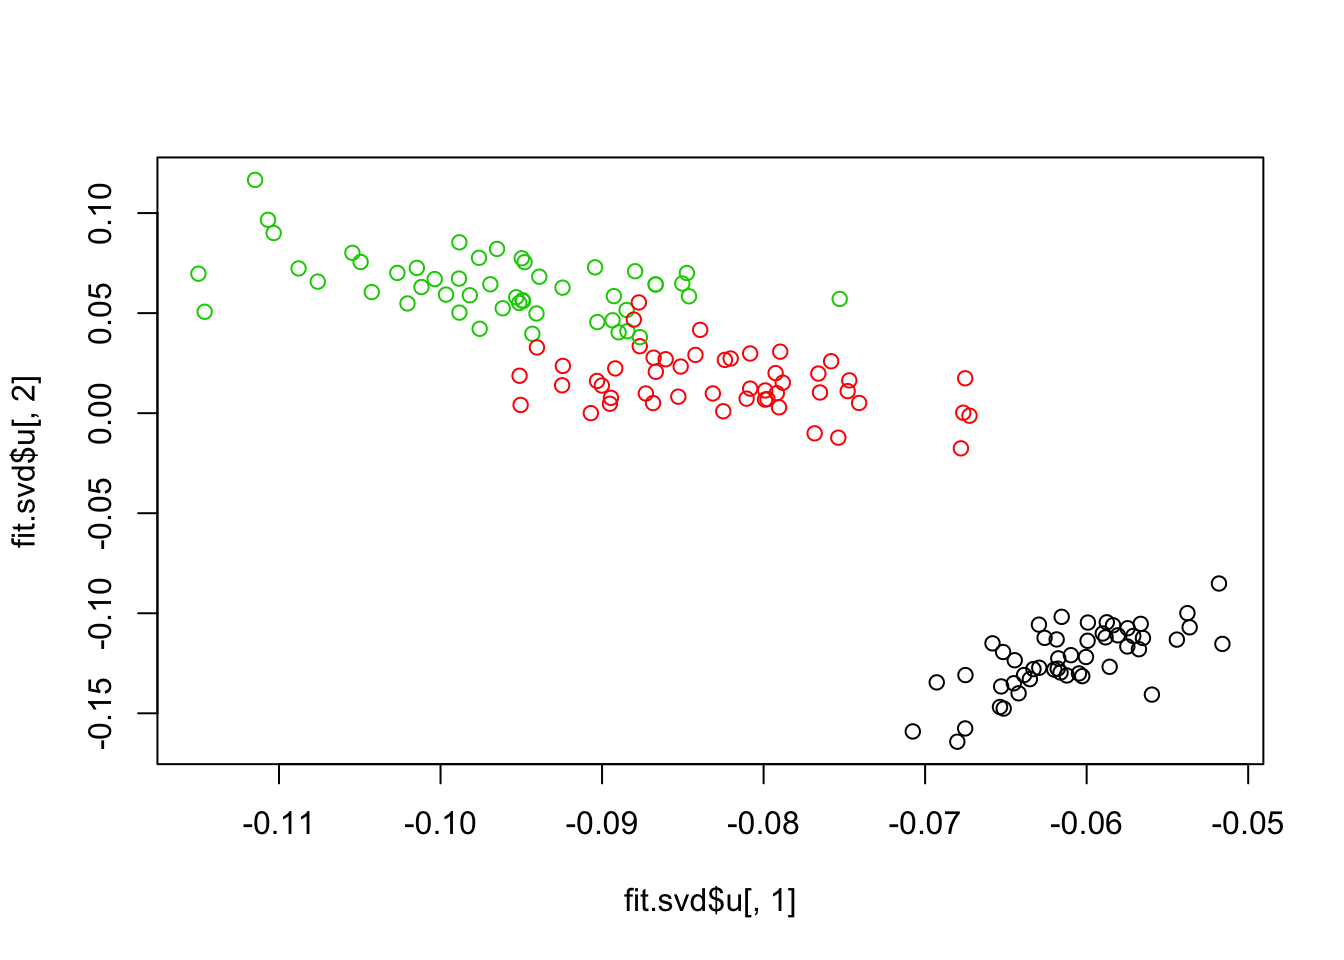
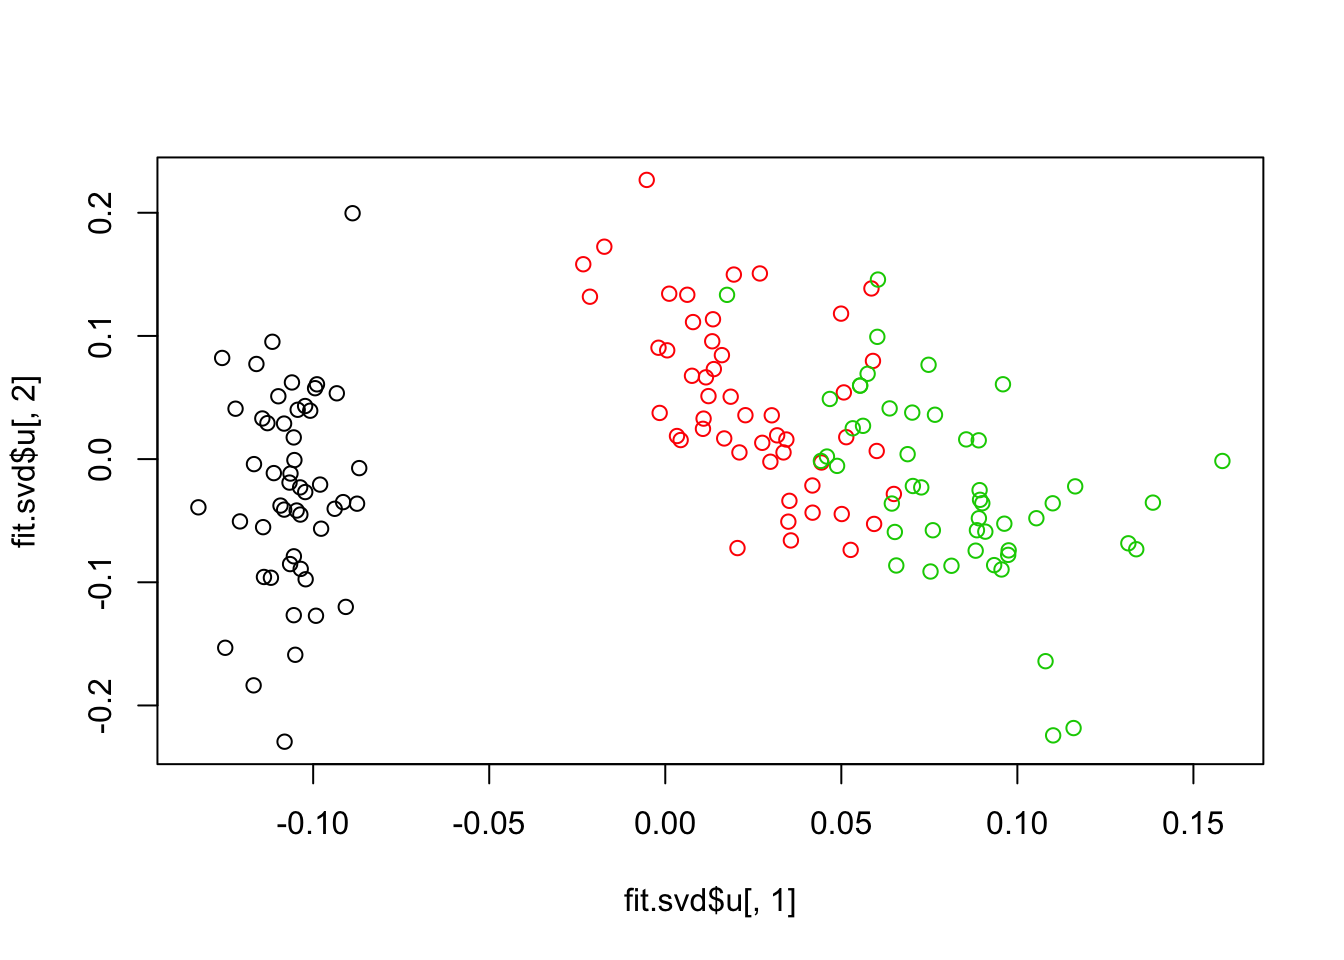
Build site.

diff --git a/docs/AnchorPCA0.html b/docs/AnchorPCA0.html
@@ -413,7 +413,7 @@ div.tocify {
 <div class="tab-content">
 <div id="summary" class="tab-pane fade in active">
 <p>
-<strong>Last updated:</strong> 2021-05-27
+<strong>Last updated:</strong> 2021-05-29
 </p>
 <p>
 <strong>Checks:</strong> <span class="glyphicon glyphicon-ok text-success" aria-hidden="true"></span> 7 <span class="glyphicon glyphicon-exclamation-sign text-danger" aria-hidden="true"></span> 0
@@ -504,16 +504,16 @@ This reproducible <a href="http://rmarkdown.rstudio.com">R Markdown</a> analysis
 <div class="panel panel-default">
 <div class="panel-heading">
 <p class="panel-title">
-<a data-toggle="collapse" data-parent="#workflowr-checks" href="#strongRepositoryversionstrongahrefhttpsgithubcomzihao12statsNotestree5a4e25bf2fc819295b2c05183ecf02f43d749250targetblank5a4e25ba"> <span class="glyphicon glyphicon-ok text-success" aria-hidden="true"></span> <strong>Repository version:</strong> <a href="https://github.com/zihao12/statsNotes/tree/5a4e25bf2fc819295b2c05183ecf02f43d749250" target="_blank">5a4e25b</a> </a>
+<a data-toggle="collapse" data-parent="#workflowr-checks" href="#strongRepositoryversionstrongahrefhttpsgithubcomzihao12statsNotestree7126986ed876fa8a9660a71627f42000e2c4c33ftargetblank7126986a"> <span class="glyphicon glyphicon-ok text-success" aria-hidden="true"></span> <strong>Repository version:</strong> <a href="https://github.com/zihao12/statsNotes/tree/7126986ed876fa8a9660a71627f42000e2c4c33f" target="_blank">7126986</a> </a>
 </p>
 </div>
[2 lines of base64/hex data omitted]
 <div class="panel-body">
 <p>
 Great! You are using Git for version control. Tracking code development and connecting the code version to the results is critical for reproducibility.
 </p>
 <p>
-The results in this page were generated with repository version <a href="https://github.com/zihao12/statsNotes/tree/5a4e25bf2fc819295b2c05183ecf02f43d749250" target="_blank">5a4e25b</a>. See the <em>Past versions</em> tab to see a history of the changes made to the R Markdown and HTML files.
+The results in this page were generated with repository version <a href="https://github.com/zihao12/statsNotes/tree/7126986ed876fa8a9660a71627f42000e2c4c33f" target="_blank">7126986</a>. See the <em>Past versions</em> tab to see a history of the changes made to the R Markdown and HTML files.
 </p>
 <p>
 Note that you need to be careful to ensure that all relevant files for the analysis have been committed to Git prior to generating the results (you can use <code>wflow_publish</code> or <code>wflow_git_commit</code>). workflowr only checks the R Markdown file, but you know if there are other scripts or data files that it depends on. Below is the status of the Git repository when the results were generated:
@@ -525,6 +525,7 @@ Ignored files:
     Ignored:    .Rproj.user/
 
 Untracked files:
+    Untracked:  analysis/AnchorPCA1.Rmd
     Untracked:  analysis/dplyr_tutorial.Rmd
     Untracked:  analysis/draft.Rmd
     Untracked:  analysis/draft2.Rmd
@@ -575,6 +576,40 @@ Message
 </tr>
 </thead>
 <tbody>
+<tr>
+<td>
+Rmd
+</td>
+<td>
+<a href="https://github.com/zihao12/statsNotes/blob/7126986ed876fa8a9660a71627f42000e2c4c33f/analysis/AnchorPCA0.Rmd" target="_blank">7126986</a>
+</td>
+<td>
+zihao12
+</td>
+<td>
+2021-05-29
+</td>
+<td>
+anchor pca 0
+</td>
+</tr>
+<tr>
+<td>
+html
+</td>
+<td>
+<a href="https://rawcdn.githack.com/zihao12/statsNotes/c6db9d9114fa4f5a03c034681be10cc5977853ed/docs/AnchorPCA0.html" target="_blank">c6db9d9</a>
+</td>
+<td>
+zihao12
+</td>
+<td>
+2021-05-27
+</td>
+<td>
+Build site.
+</td>
+</tr>
 <tr>
 <td>
 Rmd
@@ -736,10 +771,26 @@ anchorpca
 </div>
 </div>
 <ul>
-<li>Goal is try “AnchorPCA” : <a href="https://drive.google.com/file/d/1cmFQ9YV_5vptZD8m8IpQcljmfkmqKsj-/view?usp=sharing" class="uri">https://drive.google.com/file/d/1cmFQ9YV_5vptZD8m8IpQcljmfkmqKsj-/view?usp=sharing</a>. The motivation is from anchor regression <a href="https://rss.onlinelibrary.wiley.com/doi/full/10.1111/rssb.12398" class="uri">https://rss.onlinelibrary.wiley.com/doi/full/10.1111/rssb.12398</a></li>
-<li>Basic idea is, we observe matrix <span class="math inline">\(Y \in R^{n \times p}\)</span> and anchor variables <span class="math inline">\(A \in R^{n \times L}\)</span> (eacy to think of <span class="math inline">\(A\)</span> as encoding Batch ID), then to learn “useful” structure, we can apply PCA to perturbed <span class="math inline">\(\tilde{Y} = (I - \Pi_A) Y + \sqrt{\gamma} \Pi_A Y\)</span>, where <span class="math inline">\(\Pi_A = A (A^T A)^{-1} A^T\)</span> is projection onto the anchor subspace. So with <span class="math inline">\(\tilde{Y} = X B + E\)</span> we hope <span class="math inline">\(X, B\)</span> captures the useful structure.</li>
-<li>I first run vanilla PCA on IRIS dataset, then create artificial batch effects. Then I try AnchorPCA with various <span class="math inline">\(\gamma\)</span>.</li>
-<li>The goal is proof of concept: I want to test for the extreme cases when <span class="math inline">\(\gamma = 0, \infty\)</span> makes sense. Next step is to find more realistic case where extropolation between the two extremes work better.</li>
+<li>Goal is try “AnchorPCA” : (TODO: put link). The motivation is from anchor regression <a href="https://rss.onlinelibrary.wiley.com/doi/full/10.1111/rssb.12398" class="uri">https://rss.onlinelibrary.wiley.com/doi/full/10.1111/rssb.12398</a></li>
+<li>Model:</li>
+</ul>
+For <span class="math inline">\(Y\)</span>, the data generating process .
+<span class="math display">\[\begin{align}
+    &amp; Y = B X + M H + \epsilon \\
+    &amp; X \sim N(0, I_k)\\
+    &amp; H \sim N(0, \Sigma_H)\\
+    &amp; \epsilon \sim N(0, \sigma^2 I_p)\\
+    &amp; X, H, \epsilon \ \text{are independent}
+\end{align}\]</span>
+<p>For anchor variable <span class="math inline">\(A\)</span>, it’s generated by the same <span class="math inline">\((X, H)\)</span>.</p>
+<span class="math display">\[\begin{align}
+    &amp; A = W_1 X + W_2 H + \epsilon_A\\
+    &amp; \epsilon_A \sim N(0, \sigma^2 I_L)\\
+\end{align}\]</span>
+<ul>
+<li>Basic idea is use <span class="math inline">\(A\)</span> to create perturbed <span class="math inline">\(Y\)</span>: <span class="math display">\[\tilde{Y} = (Id - PA)(Y) + \sqrt{\gamma} PA(Y)\]</span> with <span class="math inline">\(PA(Z) = E(Z|A)\)</span> here. Then apply PCA on observation matrix of <span class="math inline">\(\tilde{Y}\)</span></li>
+<li>I first run vanilla PCA on IRIS dataset (assuming here indeed <span class="math inline">\(Y = BX + \epsilon\)</span>), then add artificial <span class="math inline">\(H, A\)</span> to create <code>case 1</code> and <code>case 2</code> as in the write-up.</li>
+<li>The goal is proof of concept: I want to test for the extreme cases when <span class="math inline">\(\gamma = 0, \infty\)</span> makes sense. Next step is to find more realistic cases where interpolation between the two extremes work better.</li>
 </ul>
 <pre class="r"><code>rm(list =ls())
 set.seed(123)
@@ -767,12 +818,14 @@ summary(iris)</code></pre>
                 
                 </code></pre>
 <pre class="r"><code>n= nrow(iris)
-df &lt;- iris[sample(x = 1:n,size = n,replace = FALSE),]
+df &lt;- iris
+#df &lt;- iris[sample(x = 1:n,size = n,replace = FALSE),]
+df[,1:4] = scale(df[,1:4])
 
 
 fit.svd= svd(x = df[,1:4],nu = 2,nv = 2)
 fit.svd$d</code></pre>
-<pre><code>[1] 95.959914 17.761034  3.460931  1.884826</code></pre>
+<pre><code>[1] 20.853205 11.670070  4.676192  1.756847</code></pre>
 <pre class="r"><code>plot(fit.svd$u[,1], fit.svd$u[,2],col = df$Species)</code></pre>
 <p><img src="figure/AnchorPCA0.Rmd/unnamed-chunk-2-1.png" width="672" style="display: block; margin: auto;" /></p>
 <p>
@@ -813,16 +866,23 @@ zihao12
 </div>
 </div>
 <p>We can identify 3 clusters by PC1 &amp;PC2 that correspond to the 3 species.</p>
-<div id="create-artifical-batch-effect-and-try-pca" class="section level2">
-<h2>Create artifical batch effect and try PCA</h2>
-<p>For each observation in IRIS, suppose we have an artificial batch effect</p>
-<div id="batch-id-randomly-assigned" class="section level3">
-<h3>Batch ID randomly assigned</h3>
-<p>In this case <span class="math inline">\(a_i \in \{1,2,..., L\}\)</span> is independent of <span class="math inline">\(x_i\)</span>. Therefore it makes sense to partialize out the effect of <span class="math inline">\(A\)</span> on <span class="math inline">\(Y\)</span> first, which means centering by <span class="math inline">\(Y_{ij} - \mu_{a_ij}\)</span> first, then apply PCA. in the AnchorPCA framework, this corresponds to <span class="math inline">\(\gamma = 0\)</span>.</p>
-<pre class="r"><code>par(mfrow = c(2,2))
-df_ = df
-df_[,&quot;batch&quot;] = sample(as.integer(df_$Species),size = n, replace = FALSE)
-batch_shift = c(0, 0.5,1)
+<div id="case-i" class="section level2">
+<h2>Case I:</h2>
+<ul>
+<li>In this case we can think of <span class="math inline">\(a_i \in \{1,2,..., L\}\)</span> as independent of <span class="math inline">\(x_i\)</span>, as I assign the same number of samples within each species to the same batch ID. *Therefore it makes sense to partialize out the effect of <span class="math inline">\(A\)</span> on <span class="math inline">\(Y\)</span> first, then apply PCA. In the AnchorPCA framework, this corresponds to <span class="math inline">\(\gamma = 0\)</span>.</li>
+<li>Indeed we can see <span class="math inline">\(\gamma = 0\)</span> works better than other cases.</li>
+</ul>
+<pre class="r"><code>df_ = df
+#df_[,&quot;batch&quot;] = sample(as.integer(df_$Species),size = n, replace = FALSE)
+for(i in 1:3){
+  start_idx = (i-1)*17 + 1
+  end_idx = min(i*17, 50)
+  ixs &lt;- start_idx:end_idx
+  ixs &lt;- c(ixs, ixs + 50, ixs + 100)
+  df_[ixs,&quot;batch&quot;] &lt;- i
+}
+
+batch_shift = c(0, 1,2)
 for(i in 1:3){
   l = sum(df_$batch == i)
   df_[df_$batch == i, 1:4] = df_[df_$batch == i, 1:4] + 
@@ -830,6 +890,7 @@ for(i in 1:3){
 }
 
 ## anchor PCA 
+par(mfrow = c(2,2))
 for(gam in c(10, 1, 0.3, 0)){
   Ytilde = perturb(Y = df_[,1:4], A = df_$batch,gam= gam)
   fit.svd= svd(x = Ytilde,nu = 4,nv = 4)
@@ -887,25 +948,27 @@ zihao12
 </div>
 <p>Indeed we can see with smaller <span class="math inline">\(\gamma\)</span>, the biological structure seems clearer</p>
 </div>
-<div id="if-the-batch-id-is-highly-correlated-with-species" class="section level3">
-<h3>if the batch id is highly correlated with species</h3>
+<div id="case-ii" class="section level2">
+<h2>Case II</h2>
 <ul>
-<li>Just a proof of concept… it’s cheating as batch id is just species id here. Here the role of <span class="math inline">\(A\)</span> is(?check) instrumental variable.</li>
-<li>We can see removing supposedly “bacth effects” also remove useful biological information.</li>
+<li>I let <span class="math inline">\(Y = A + H + \epsilon\)</span> and <span class="math inline">\(A = BX\)</span>. So it makes sense to do PCA on <span class="math inline">\(A\)</span> instead of <span class="math inline">\(H\)</span>. This is equavelent to work on <span class="math inline">\(\tilde{Y} = PA(Y) = A\)</span>, corresponding to <span class="math inline">\(\gamma = \infty\)</span>.</li>
+<li>Indeed it can find structure when <span class="math inline">\(\gamma\)</span> is large.</li>
 </ul>
-<pre class="r"><code>par(mfrow = c(2,2))
-df_ = df
-df_[,&quot;batch&quot;] = as.integer(df_$Species)
+<pre class="r"><code>df_ = df
+A = df_[,1:4]
+H = matrix(, nrow = nrow(A), ncol = ncol(A))
+df_[,&quot;batch&quot;] = sample(as.integer(df_$Species),size = n, replace = FALSE)
 batch_shift = c(0, 0.5,1)
 for(i in 1:3){
   l = sum(df_$batch == i)
-  df_[df_$batch == i, 1:4] = df_[df_$batch == i, 1:4] +
-    rnorm(l*4,mean = batch_shift[i],sd = 1)
+  H[df_$batch == i, ] = rnorm(l*4,mean = batch_shift[i],sd = 1)
 }
+Y = H + A
 
 ## anchor PCA 
-for(gam in c(10, 1, 0.3, 0)){
-  Ytilde = perturb(Y = df_[,1:4], A = df_$batch,gam= gam)
+par(mfrow = c(2,2))
+for(gam in c(100000, 1, 0.3, 0)){
+  Ytilde = perturb(Y = Y, A = as.matrix(A), gam= gam)
   fit.svd= svd(x = Ytilde,nu = 4,nv = 4)
   fit.svd$d
   plot(fit.svd$u[,1], fit.svd$u[,2],col = df_$Species, main = sprintf(&quot;gam = %.2f&quot;, gam))
@@ -959,7 +1022,6 @@ zihao12
 </table>
 </div>
 </div>
-<p>These two extreme cases show that indeed we might need to extroplate between <span class="math inline">\(\gamma = 0\)</span> and <span class="math inline">\(\gamma = \infty\)</span> to recover useful structure.</p>
 <br>
 <p>
 <button type="button" class="btn btn-default btn-workflowr btn-workflowr-sessioninfo" data-toggle="collapse" data-target="#workflowr-sessioninfo" style="display: block;">
@@ -992,7 +1054,6 @@ loaded via a namespace (and not attached):
 [13] promises_1.1.1  whisker_0.3-2   rmarkdown_2.1   tools_3.5.1    
 [17] stringr_1.4.0   glue_1.4.1      httpuv_1.5.4    xfun_0.8       
 [21] yaml_2.2.0      compiler_3.5.1  htmltools_0.5.0 knitr_1.28     </code></pre>
-</div>
 </div>
 </div>
 
